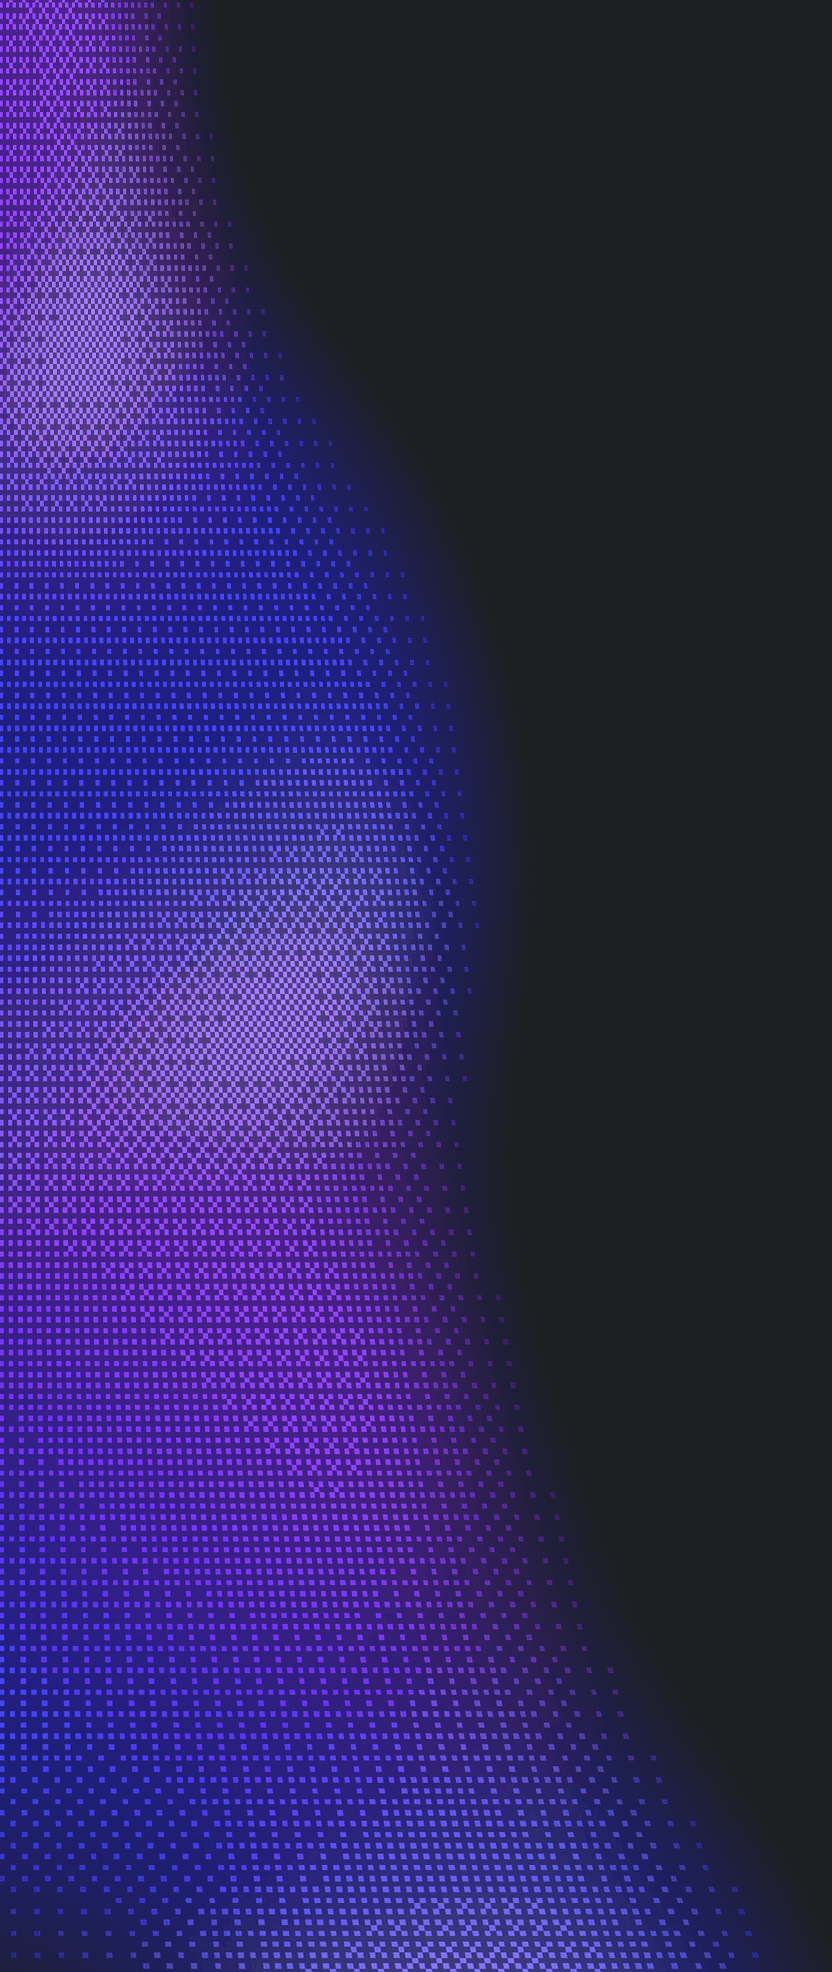
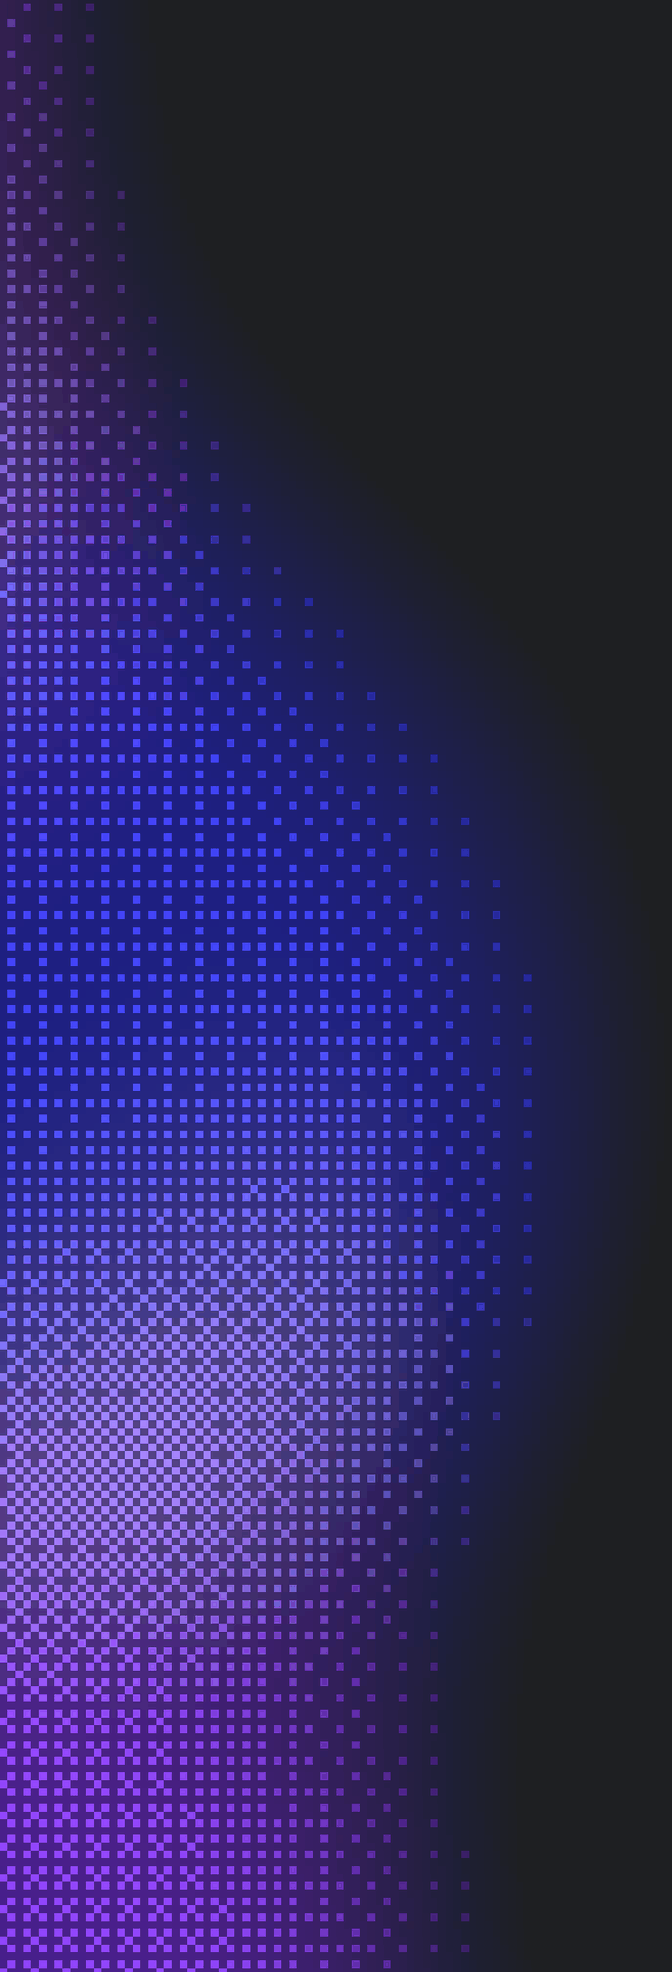
feat(web): Westworld thread dither keeps its dots round
The taper was a non-uniform horizontal scale and squashed the dots into
ovals near the top, which Noey read as distortion. Get the same silhouette
without it: flip the frame's raster window so its thin end is up, cut it to
its upper 70% so its widest bulge lands at the bottom edge, and scale it
uniformly to the card height. 107 KB, median cut.

diff --git a/apps/web/src/theme.custom.westworld.css b/apps/web/src/theme.custom.westworld.css
@@ -74,17 +74,18 @@
    below the #26272c surface, with a blob dither rising from its left edge.
    The frame places Noey's "blobditherbluepurp" export (layer 447:15859,
    758×1011 at -357,-15 on a 971×1008 card, blend mode lighten) so only its
-   right 53% shows; the asset here takes a wider window (the right 70%, so
-   the column's bulges vary more along its height), flattened over black,
-   flipped vertically and tapered (0.6× wide at the top, 1.1× at the
-   bottom) because Noey wanted it thin at the top and thick at the bottom,
-   then
+   right 53% shows; the asset here is that window, flattened over black,
+   flipped vertically and cut to its upper 70% before a uniform scale to the
+   card height — Noey wanted it thin at the top and thick at the bottom,
+   and the flip puts the raster's thin end up while the cut lands its widest
+   bulge at the bottom edge. Uniform on purpose: a taper or a row warp
+   squashes the dots into ovals, which read as distortion. Then
    lightened onto the card colour — lighten is what the frame does, and it
    is what lets the black between the dots vanish into the card — and
-   cropped to the 416px it reaches (about 43% of the frame's card). It
+   cropped to the 336px it reaches (about 35% of the frame's card). It
    paints as a `left top / auto 100%` layer, so it scales with the card
    height and the rest of the card stays the flat colour. Quantized to 256 colours with median cut (octree steps the glow's
-   falloff into a visible staircase; median cut does not): 359 KB against truecolour, no channel more than 25 levels off.
+   falloff into a visible staircase; median cut does not): 107 KB against truecolour, no channel more than 25 levels off.
 
    ::after is the new-agent draft (Figma 416:8420, layer 421:12528,
    "doloresbluedither4"): the blue portrait at full strength under a
@@ -106,7 +107,7 @@
 
    westworld-hero.png is the Figma export quantized to 256 colours (octree),
    171 KB against 1.3 MB (no channel more than 14 levels off);
-   westworld-thread.png is the 832×1972 left blob strip, 256 colours (median cut), 359 KB. */
+   westworld-thread.png is the 672×1972 left blob strip, 256 colours (median cut), 107 KB. */
 :root[data-fork="noahhendrickson-t3code"].dark[data-fork-theme="cool-dark"]
   [data-chat-workspace-drop-target="true"]::before {
   content: "";
